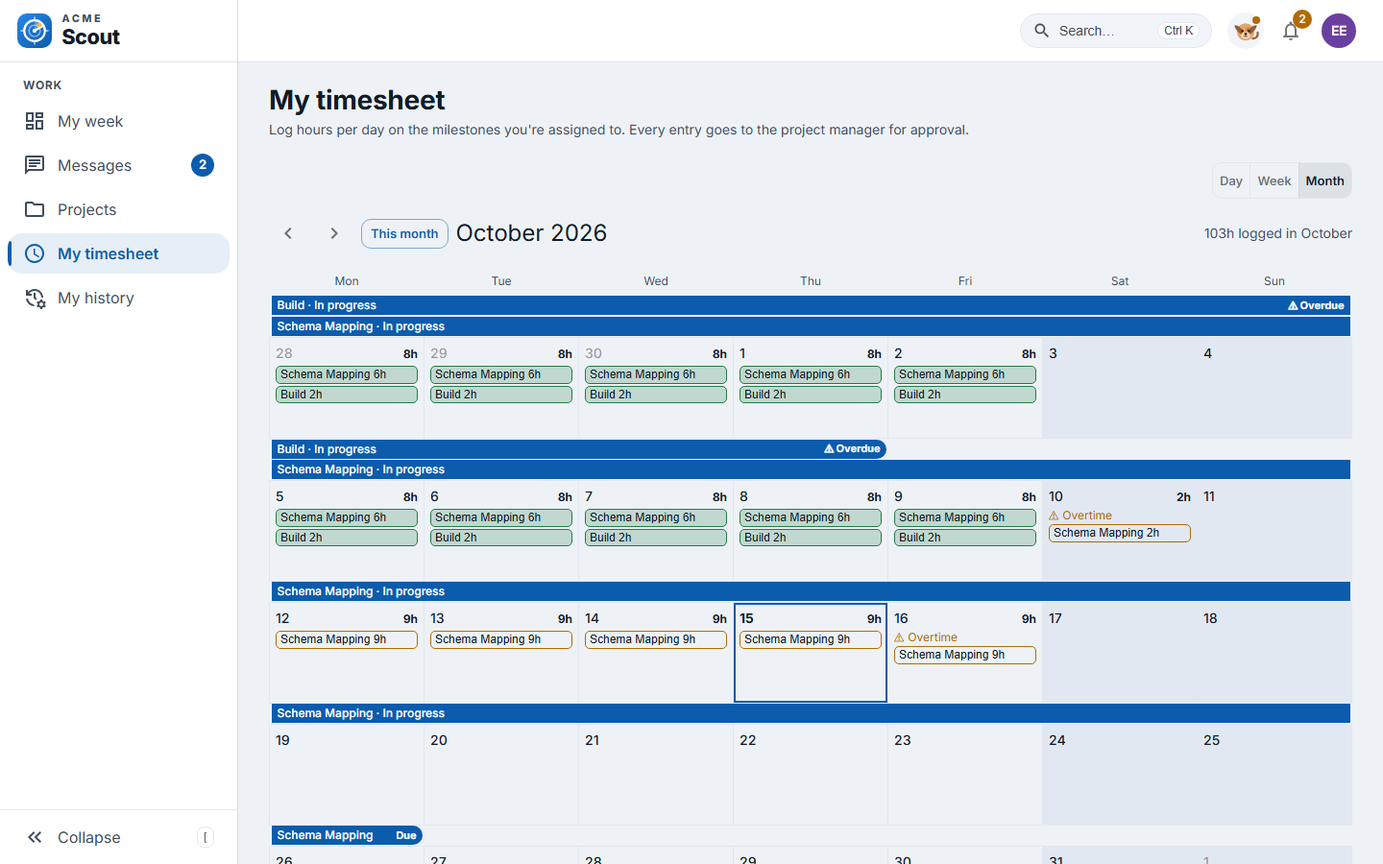
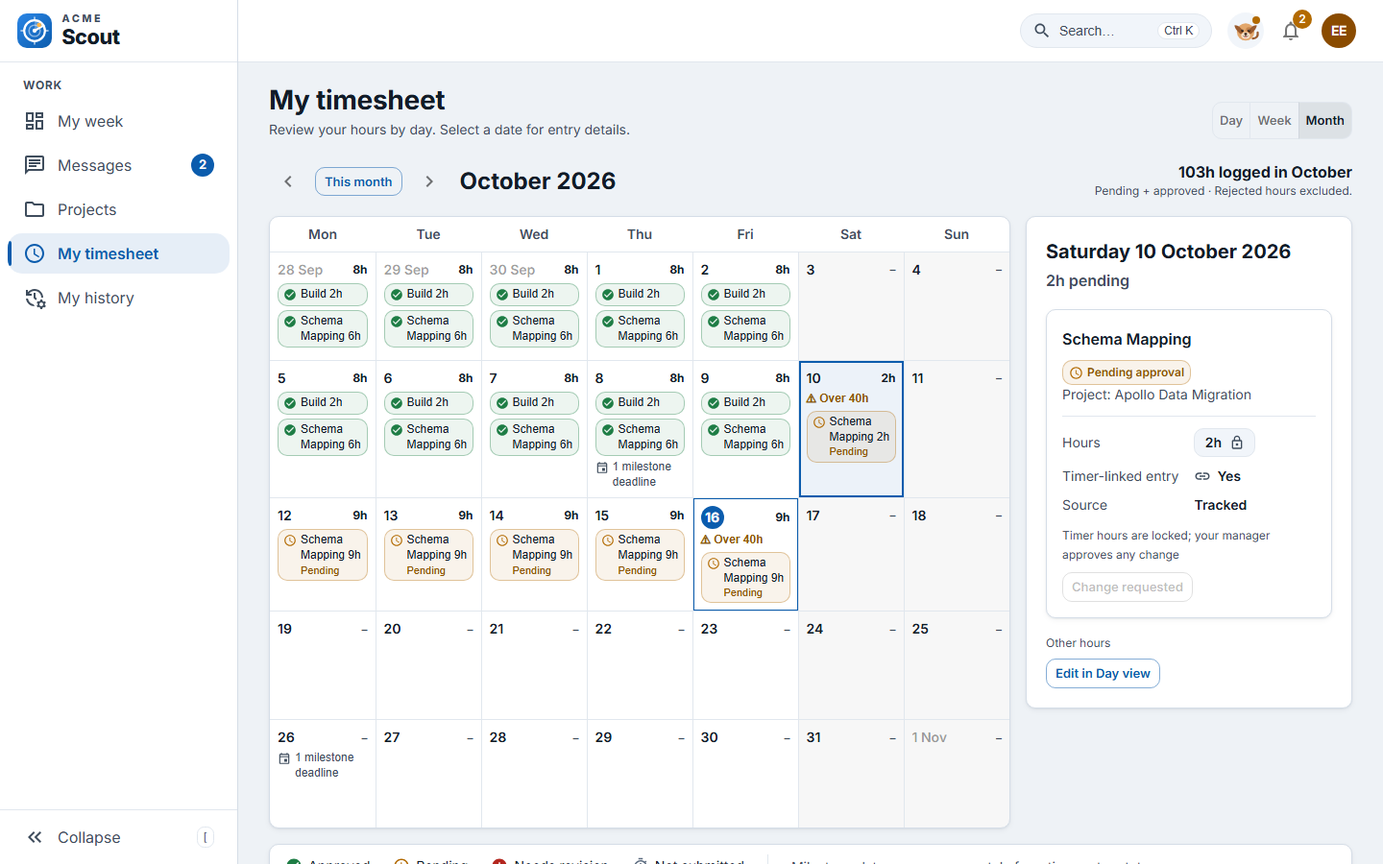
Month view v2: end-to-end journey, docs and screenshot

diff --git a/frontend/e2e/overtime.spec.js b/frontend/e2e/overtime.spec.js
@@ -41,11 +41,15 @@ test('employee logs 9h Mon–Fri → Friday shows the overtime label → manager
     await expect(page.getByText(/Overtime requested from/)).toHaveCount(0)
   }
 
-  // The Month view shows the same hours (Friday is the overtime day); picking a day there opens the Day view on it (on a phone, via the panel's "Open this day").
+  // The Month view shows the same hours (Friday is the overtime day). Picking a day selects it and its panel (beside the grid, or under it
+  // on a phone) lists the hours; "Edit in Day view" there opens the Day view on that day.
   const friday = (await page.getByRole('button', { name: /^Fri \d/ }).first().getAttribute('aria-label')).match(/Fri \d+ \w+/)[0]
   await page.getByRole('button', { name: 'Month', exact: true }).click()
-  await page.getByRole('button', { name: new RegExp(`^${friday}, 9 hours, overtime, Schema Mapping 9 hours pending`) }).click()
-  if (testInfo.project.name === 'mobile') await page.getByRole('button', { name: 'Open this day' }).click()
+  await page.getByRole('button', { name: new RegExp(`^${friday}, .*Schema Mapping 9 hours pending`) }).click()
+  const panel = page.getByRole('region', { name: /^Friday \d+ \w+ \d{4}$/ })
+  await expect(panel).toContainText('9h pending')
+  await expect(panel.getByRole('heading', { name: 'Schema Mapping' })).toBeVisible()
+  await panel.getByRole('button', { name: 'Edit in Day view' }).first().click()
   await expect(page.getByRole('button', { name: 'Day', exact: true })).toHaveAttribute('aria-pressed', 'true')
   await expect(page.getByLabel(/^Schema Mapping, Fri/)).toHaveValue('9')
 

diff --git a/docs/project/TESTING.md b/docs/project/TESTING.md
@@ -9,13 +9,13 @@ The tests are built for **debugging**, not only for a green tick:
 
 | Layer | Tool | Count | What a failure here means |
 |---|---|---|---|
-| Rules (unit) | pytest | part of 377 unit tests | A business rule is wrong: at-risk, over-40, cycles, the capacity cap, usernames, milestone status, priority, routing, claims, planning checks, messaging permissions, insights, reminders, timers and rounding, timer drafts and locks, over-limit thresholds, proof of work, red flags, the PNG sanitiser, or the password policy. No database is involved |
-| Core (unit) | pytest | part of 377 unit tests | The HTTP envelope, router guards, request IDs, hashing and tokens, or the SES fail-fast behaviour |
-| API (integration) | pytest + real PostgreSQL 17 | 741 | An endpoint is wrong: permissions (401/403/404), the executive and public demo guards, validation, archiving, an audit row, a race-safe update, or what one role can see vs another |
-| Frontend (component) | Vitest + React Testing Library + MSW | 923 (71 files) | A screen is wrong: form gating, loading/empty/error states, role-based hiding, or the payload sent to the API |
+| Rules (unit) | pytest | part of 387 unit tests | A business rule is wrong: at-risk, over-40, cycles, the capacity cap, usernames, milestone status, priority, routing, claims, planning checks, messaging permissions, insights, reminders, timers and rounding, timer drafts and locks, over-limit thresholds, proof of work, red flags, the PNG sanitiser, or the password policy. No database is involved |
+| Core (unit) | pytest | part of 387 unit tests | The HTTP envelope, router guards, request IDs, hashing and tokens, or the SES fail-fast behaviour |
+| API (integration) | pytest + real PostgreSQL 17 | 786 | An endpoint is wrong: permissions (401/403/404), the executive and public demo guards, validation, archiving, an audit row, a race-safe update, or what one role can see vs another |
+| Frontend (component) | Vitest + React Testing Library + MSW | 928 (72 files) | A screen is wrong: form gating, loading/empty/error states, role-based hiding, or the payload sent to the API |
 | End-to-end | Playwright | 3 journeys × 2 devices | The pieces don't fit together in a real browser: real API, real database, real cookies |
 
-Counts as of 2026-10-15: **1,120 backend** (377 unit, 743 integration, 97% coverage) and **923 frontend** in 71 files, plus **6 end-to-end**, all passing. Four date-dependent backend tests fail when the suite is run after 8 pm New York time (see [Known issue](#known-issue-date-dependent-backend-tests)). Results are under [Current results](#current-results-2026-10-15); older dated results further down are snapshots taken at the time.
+Counts as of 2026-10-16: **1,173 backend** (387 unit, 786 integration, collected; 97% coverage at the last full run) and **928 frontend** in 72 files, plus **6 end-to-end**; the frontend and end-to-end suites all pass. Four date-dependent backend tests fail when the suite is run after 8 pm New York time (see [Known issue](#known-issue-date-dependent-backend-tests)). Results are under [Current results](#current-results-2026-10-15); older dated results further down are snapshots taken at the time.
 
 **Fail-closed guard tests.** Two integration tests walk every registered write route (66 of 114 routes): [`test_public_demo.py`](../../backend/v1/tests/integration/test_public_demo.py) fails while any write route is neither allowed nor denied for the public demo admin, and [`test_executive.py`](../../backend/v1/tests/integration/test_executive.py) fails if the set of routes that let an executive write differs from the expected list, and checks that no executive response carries `salary` or `hourly_rate`. A new endpoint can't ship without a decision for both.
 
@@ -75,9 +75,9 @@ Each journey runs on **desktop Chrome (1280×800)** and on an **iPhone 13 profil
 2. **Milestones:** a manager adds a milestone that depends on *Discovery* and assigns Eli. Eli starts it and moves it to *ready for review*; Eli can't complete it. The manager then completes it.
 3. **Overtime:** an employee logs 9 h Monday to Friday in the timesheet's Day view: for each day they pick it in the week strip, type the hours and a work note (proof of work), and they press **Submit** once at the end. Stepping through the days afterwards, only Friday shows "Pending (Overtime requested from …)". The manager gets exactly one notification and opens it on the Timesheets page, filtered to that person. The manager then views the budget impact and approves, and the project's consumed budget goes up.
 
-## Current results (2026-10-15)
+## Current results (2026-10-16)
 
-Windows 11, PostgreSQL 17, Node 24, Python 3.12. Backend: 1,120 tests (377 unit, 743 integration), 30 more than before the Month view. The timed runs below come from `59d29fe` (the timer workflow) and `323ea89`, which had 1,087 tests; `f6c27bd` (no timer on a completed milestone) then added 3. The plain run was repeated at `3e61cd3` after 8 pm New York time, so it shows the known issue below. Frontend and end-to-end figures from the timesheet Month view (15 October), after the Day view rewrite of the end-to-end overtime journey.
+Windows 11, PostgreSQL 17, Node 24, Python 3.12. Backend: 1,173 tests (387 unit, 786 integration), 83 more than before the Month view (the backend counts are collected, not re-run in full; the timed runs below are earlier). The timed runs below come from `59d29fe` (the timer workflow) and `323ea89`, which had 1,087 tests; `f6c27bd` (no timer on a completed milestone) then added 3. The plain run was repeated at `3e61cd3` after 8 pm New York time, so it shows the known issue below. Frontend and end-to-end figures from the timesheet Month view (15 October), after the Month view v2 (16 October).
 
 ```
 # backend/v1: OVERWATCH_TEST_DB=overwatch_test_docs2 python -m pytest -o addopts="" -q
@@ -91,12 +91,12 @@ TOTAL                                     6456    175    97%
 1087 passed in 276.86s (0:04:36)
 
 # collected per layer
-tests/unit:        377 tests
-tests/integration: 743 tests
+tests/unit:        387 tests
+tests/integration: 786 tests
 
 # frontend: npx vitest run
- Test Files  71 passed (71)
-      Tests  923 passed (923)
+ Test Files  72 passed (72)
+      Tests  928 passed (928)
 
 # frontend: npm run lint && npm run build
 no problems; built in 9.68s
@@ -105,7 +105,7 @@ no problems; built in 9.68s
   6 passed (1.6m)
 ```
 
-The end-to-end suite (3 journeys × desktop Chrome and iPhone 13 WebKit, 6 tests) was brought up to date on 15 October: the overtime journey logs day by day in the Day view (hours and a work note per day, one **Submit** for the week) and follows the alert to the Timesheets page (after submitting, it switches to **Month**, finds Friday's button by its name and hours, and checks that clicking it opens the Day view on that day), and the onboarding journey lands on My week. All 6 pass. When the machine is busy with other suites, the milestones journey can time out waiting on the API; run the end-to-end suite on its own.
+The end-to-end suite (3 journeys × desktop Chrome and iPhone 13 WebKit, 6 tests) was brought up to date on 15 October: the overtime journey logs day by day in the Day view (hours and a work note per day, one **Submit** for the week) and follows the alert to the Timesheets page (after submitting, it switches to **Month**, selects Friday, checks that the day's panel lists its 9h pending, and presses **Edit in Day view** to land on that day; on a phone the panel sits under the grid), and the onboarding journey lands on My week. All 6 pass. When the machine is busy with other suites, the milestones journey can time out waiting on the API; run the end-to-end suite on its own.
 
 ### Known issue: date-dependent backend tests
 

diff --git a/README.md b/README.md
@@ -12,7 +12,7 @@ Scout is a project tracking platform for ACME Inc. It gives admins, project mana
 |---|---|
 | **Live site** | https://d3ucnz03j0sngl.cloudfront.net |
 | **Stack** | React 19 · Material UI 9 · React Responsive · Python 3 on AWS Lambda · Aurora PostgreSQL 17 |
-| **Tests** | 1,120 backend (377 unit · 743 integration, 97% coverage) · 923 frontend component (71 files) · 6 end-to-end (3 journeys × desktop + mobile), all passing on 15 Oct — see [TESTING.md](docs/project/TESTING.md) |
+| **Tests** | 1,173 backend (387 unit · 786 integration; 97% coverage at the last full run) · 928 frontend component (72 files) · 6 end-to-end (3 journeys × desktop + mobile); frontend and end-to-end all passing on 16 Oct — see [TESTING.md](docs/project/TESTING.md) |
 | **Source** | https://github.com/RootMoataz/citi-overwatch (the repository keeps its original name for now) |
 
 ## What it does
@@ -31,7 +31,7 @@ Highlights:
 
 - **Four roles plus a public demo.** Admin, manager, employee and a read-only executive, enforced on the server and reflected in the UI ([permission matrix](docs/project/USER_STORIES.md#roles-at-a-glance)). A public demo admin gets 5-minute sessions and a fail-closed list of allowed writes.
 - **Accounts.** Admins create them in a five-step wizard with live username checks and a generated password, or several at once in a conversation with Puppy. The welcome email carries a temporary password, which must be changed at first sign-in. After you sign out, the next sign-in lands on home; if a session merely expires, signing in again returns you to the page you were on, but only for the same person. Everyone sees a **Your manager** card on My week and their profile, with one press to message their manager.
-- **Timesheets.** Employees (and managers or admins an admin has switched to "Tracks own hours") log hours on the milestones they're assigned to, one day at a time: a week strip with each day's hours, a row per milestone with its hours and a work note, and one **Submit** for the whole week (a **Day | Week | Month** toggle brings back the full week grid, or shows the month: milestone bars across the calendar and each day's hours by milestone and status, with approved, pending, rejected and timer hours drawn differently. Clicking a day opens it in the Day view, and `?month=YYYY-MM` in the address keeps the month). Every hour needs the project manager's (or delegate's) approval before it counts toward the budget. Going over 40 hours is a warning, not a block. Admins submit approved pay periods to HR, and later edits come back as corrections.
+- **Timesheets.** Employees (and managers or admins an admin has switched to "Tracks own hours") log hours on the milestones they're assigned to, one day at a time: a week strip with each day's hours, a row per milestone with its hours and a work note, and one **Submit** for the whole week (a **Day | Week | Month** toggle brings back the full week grid, or shows the month: each day's hours with a chip per line (approved, pending, needs revision, not submitted, each with an icon and a word), a "⚠ Over 40h" mark and milestone-deadline markers. Clicking a day selects it and opens its panel with the hours, the lock and **Request a change** for timer hours, and **Edit in Day view**; `?month=YYYY-MM&day=YYYY-MM-DD` in the address keeps the month and day). Every hour needs the project manager's (or delegate's) approval before it counts toward the budget. Going over 40 hours is a warning, not a block. Admins submit approved pay periods to HR, and later edits come back as corrections.
 - **Approvals.** The Timesheets page groups pending hours by person-week. Each entry shows its budget impact: the cost of the request, the remaining budget before and after, and a 4-week-pace forecast.
 - **Hour-tracking safeguards.** A start/stop timer on My week and the timesheet (one at a time, a live clock in the header, stopped at midnight) whose hours pre-fill a locked timesheet cell until **Submit** sends them (a **Request a change** goes to the manager), a **Live now** card where managers watch running timers tick and can stop one with a message, warnings at 100% of the 8h day, the milestone's estimate or the 40h week (the manager is alerted at 125%), proof of work on new hours (a work note or that day's progress update), and red flags for approvers (same hours daily, long days, closed milestones, backdated, over plan, no activity, no proof) with a "Tracked 68% · Manual 32%" share per person-week ([Logic walkthrough §28](docs/project/LOGIC_WALKTHROUGH.md#28-hour-tracking-safeguards-timers-proof-of-work-red-flags)).
 - **Nothing is ever deleted.** Records are archived and an admin can restore them. Every change is written to the **audit log**.
@@ -59,8 +59,8 @@ Screenshots from the live site with the demo data (light mode unless noted).
 | **My week**: hours so far, your manager, assigned milestones, a start/stop timer | **Kick back** a blocked milestone to the manager with a reason |
 | ![My timesheet, Day view, on Thursday 15 Oct: the week strip with each day's hours, a Submit 1 change button, and the Schema Mapping row holding 2h of timer hours, locked, with "from timer, not submitted yet", a Request a change button and the work note](docs/images/timer-locked-cell.png) | ![The This week card above the Your manager card: Morgan Manager, Delivery Manager in Technology, with a Message Morgan button](docs/images/your-manager.png) |
 | **My timesheet, one day at a time**: a week strip, a row per milestone, and timer hours pre-filling a locked row; **Request a change** asks the manager | **Your manager**: who they are, and one press to message them |
-| ![My timesheet, Month view, October 2026: milestone bars across the calendar, each day's hours by milestone and status](docs/images/timesheet-month.png) | |
-| **My timesheet, Month**: bars for your milestones and each day's hours by status (approved solid, pending outlined, rejected struck through, timer dashed); click a day to open it | |
+| ![My timesheet, Month view, October 2026: each day's hours as status chips, deadline markers, and the selected day's panel beside the grid](docs/images/timesheet-month.png) | |
+| **My timesheet, Month**: each day's hours by approval status (icon and word, never colour alone), milestone deadlines as small markers, and a panel for the selected day with **Edit in Day view** | |
 
 <p>
   <img src="docs/images/timesheet-mobile.png" alt="My timesheet on a phone, Day view: Submit 1 change, the week strip with Thursday selected at 3.5h, and the Schema Mapping row with a Start button for the timer, its hours and a work note" width="30%">
@@ -168,8 +168,8 @@ Connection settings come from `POSTGRES_HOST`, `POSTGRES_PORT`, `POSTGRES_USER`,
 ## Tests
 
 ```bash
-cd backend/v1 && python -m pytest --cov=app              # 1,120 unit + integration tests against local Postgres
-cd frontend && npm test                                  # 923 component tests (Vitest + Testing Library)
+cd backend/v1 && python -m pytest --cov=app              # 1,173 unit + integration tests against local Postgres
+cd frontend && npm test                                  # 928 component tests (Vitest + Testing Library)
 cd frontend && npx playwright install chromium webkit    # once
 cd frontend && npm run e2e                               # 3 journeys × desktop Chrome and iPhone 13 (WebKit)
 cd frontend && npm run lint

diff --git a/docs/project/LOGIC_WALKTHROUGH.md b/docs/project/LOGIC_WALKTHROUGH.md
@@ -201,13 +201,14 @@ stateDiagram-v2
 
 ## 5c. The timesheet's Month view
 
-A read-only calendar of one person's month, opened with the **Day | Week | Month** toggle (`?month=YYYY-MM`; the choice is kept in this browser, and blocked storage just means Day).
+A read-only, hours-first calendar of one person's month, opened with the **Day | Week | Month** toggle (`?month=YYYY-MM`; the choice is kept in this browser, and blocked storage just means Day).
 
-- **One request.** `GET /time-entries/calendar?month=YYYY-MM` returns the grid (the Monday on or before the 1st to the Sunday on or after the last day, 4 to 6 whole weeks), the person's milestones that overlap it, their entries (every status, with the week view's `label`, `over_40` and `needs_note`) and timer drafts. A milestone you're assigned to keeps its real `role` even when it's listed only because you logged hours on it; `role: null` marks one you aren't assigned to. Permissions are the week's: your own, or a manager's or admin's view of someone they may see. Code: `calendar_range()` and the calendar handler in [`app/features/time/service.py`](../../backend/v1/app/features/time/service.py).
-- **Bars.** Each week row lays the milestones out as bars across their days, up to 3 lanes, with a "+N more milestones this week" line for the rest ([`monthLayout.js`](../../frontend/src/features/timesheet/monthLayout.js)). A bar is labelled "Name · State" when it is at least 3 columns wide and has a tooltip otherwise. State colours and stripes (waiting and blocked) come from the same theme as the timeline; an overdue milestone is marked.
-- **Day boxes.** Each day lists its hours by milestone and status: approved solid, pending outlined, rejected red with the hours struck through, timer drafts dashed ("from timer"). The day total counts pending and approved hours only; rejected and timer hours are shown but not counted, and a total over 24h turns red. All the date maths is on `YYYY-MM-DD` strings, so a daylight-saving change can't shift a day.
-- **Opening a day.** Each day is a button named like "Wed 14 Oct, 9 hours, Schema Mapping 9 hours pending". Clicking it opens the Day view on that day; on a phone the tap shows the day's details first, with **Open this day**.
-- **UI:** [`MonthView.jsx`](../../frontend/src/features/timesheet/MonthView.jsx), [`MonthBars.jsx`](../../frontend/src/features/timesheet/MonthBars.jsx), [`MonthDayBox.jsx`](../../frontend/src/features/timesheet/MonthDayBox.jsx), [`monthText.js`](../../frontend/src/features/timesheet/monthText.js) and the toggle in [`TimesheetPage.jsx`](../../frontend/src/features/timesheet/TimesheetPage.jsx).
+- **One request.** `GET /time-entries/calendar?month=YYYY-MM` returns the grid (the Monday on or before the 1st to the Sunday on or after the last day, 4 to 6 whole weeks), the person's milestones that overlap it, their entries (every status, with the week view's `label`, `over_40`, `needs_note`, `tracked_hours` and `rejection_reason`), timer drafts and `locks`: the cells holding timer hours or drafts, in the week view's shape (`milestone_id`, `work_date`, `hours`, `draft_hours`, `tracked_hours`, `request`). A milestone you're assigned to keeps its real `role` even when it's listed only because you logged hours on it; `role: null` marks one you aren't assigned to. Permissions are the week's: your own, or a manager's or admin's view of someone they may see. Code: `calendar_range()` and the calendar handler in [`app/features/time/service.py`](../../backend/v1/app/features/time/service.py).
+- **No milestone bars.** The grid shows hours and approval status only; colours mean approval status and nothing else. Milestone state stays on the project's timeline.
+- **Day boxes.** Each day shows its date, its total ("–" when empty) and one chip per line, each with an icon and a word: approved (a tick, green), pending (a clock, amber, "Pending"), rejected (an exclamation mark, red, "Needs revision", hours struck through) and a timer draft (a timer, dashed, "Not submitted"). More than 3 lines become "+N more". The day total counts pending and approved hours only; rejected and timer hours are shown but not counted, and a total over 24h turns red. "⚠ Over 40h" marks a day holding an over-40 entry, and "📅 N milestone deadlines" a day where an assigned, unfinished milestone ends. On a phone each line is a small shape in its status colour (approved a filled circle, pending a ring, needs revision a square, not submitted a dashed ring), so colour is never the only cue. All the date maths is on `YYYY-MM-DD` strings, so a daylight-saving change can't shift a day.
+- **Selecting a day.** Each day is a button named like "Wed 14 Oct, 9 hours, Schema Mapping 9 hours pending". Clicking it selects it (`?month=YYYY-MM&day=YYYY-MM-DD`; today if it is in the month, otherwise the 1st) and never leaves the Month view.
+- **The day panel** (beside the grid from 900px, under it on a phone): the full date, a summary ("8h · 6h approved, 2h pending"), a card per line (status chip, project, hours, "Timer-linked entry", Source: Manual when `tracked_hours` is 0, Tracked when it is at least the hours, Mixed otherwise, and the manager's reason on a rejected line), then the milestones due that day with **View milestones**. A cell holding timer hours (a `locks` entry) is locked: its card shows the lock, "Timer hours are locked; your manager approves any change" and **Request a change** (the existing dialog; "Change requested" while one waits). Any other line has **Edit in Day view**, which opens the Day view on that date; a day with only locked lines or none offers the same button under "Other hours" or on its own. The Month view never saves hours; typed hours stay editable in the Day view.
+- **UI:** [`MonthView.jsx`](../../frontend/src/features/timesheet/MonthView.jsx), [`MonthDayBox.jsx`](../../frontend/src/features/timesheet/MonthDayBox.jsx), [`MonthDayPanel.jsx`](../../frontend/src/features/timesheet/MonthDayPanel.jsx), [`monthLayout.js`](../../frontend/src/features/timesheet/monthLayout.js), [`monthText.js`](../../frontend/src/features/timesheet/monthText.js) and the toggle in [`TimesheetPage.jsx`](../../frontend/src/features/timesheet/TimesheetPage.jsx).
 
 ## 6. The at-risk rule
 

diff --git a/docs/project/USER_STORIES.md b/docs/project/USER_STORIES.md
@@ -255,7 +255,11 @@ Each panel is titled with the question it answers, and the panels are labelled r
     - Switching day keeps what I typed. **Submit N changes** in the page header sends every changed cell of the week, on any day, in one save.
     - Completed milestones, and milestones of a closed or on-hold project, sit behind **Show N closed milestones**. A completed milestone stays editable while its project is open; a closed or on-hold project's rows are read-only.
   - The **Day | Week | Month** toggle swaps in the **Week grid** (one row per assigned milestone, grouped by project, with daily and weekly totals) or the **Month** calendar. The choice is remembered in this browser. Weekends are hidden behind a switch on phones.
-  - The **Month** calendar (`?month=YYYY-MM`, with previous/next month buttons) shows my milestones as bars across the weeks, labelled "Name · State" on wide bars and in a tooltip on narrow ones, and each day's hours by milestone and status: approved solid, pending outlined, rejected in red with the hours struck through, and timer hours not yet submitted dashed ("from timer"). A day's total counts pending and approved hours only. A legend explains the line styles and milestone states. Clicking a day opens it in the Day view; on a phone, tapping a day shows its details first, with **Open this day**.
+  - The **Month** calendar (`?month=YYYY-MM&day=YYYY-MM-DD`, with previous/next month buttons) is about hours, not milestones:
+    - Each day shows its total (pending and approved only) and a chip per line with an icon and a word: approved, "Pending", "Needs revision" (hours struck through) or "Not submitted" (a timer draft). On a phone the lines are small shapes instead.
+    - "⚠ Over 40h" marks an overtime day, and "📅 N milestone deadlines" a day when one of my unfinished milestones ends.
+    - The header reads "<total>h logged in <Month>" with "Pending + approved · Rejected hours excluded."; a legend explains the statuses.
+    - Clicking a day selects it. A panel (beside the grid, or under it on a phone) lists that day's hours, one card per line with status, project, hours, whether it is timer-linked and its source (Manual, Tracked or Mixed), and the manager's reason on a rejected line. Timer hours are locked, with **Request a change**; other lines have **Edit in Day view**. The day's milestone dates follow, with **View milestones**.
   - Each saved entry shows its status:
     - "Pending approval"
     - "Pending (Overtime requested from *First Last*)" for the entry that takes my week past 40 hours, and any after it

diff --git a/docs/project/DEMO_SCRIPT.md b/docs/project/DEMO_SCRIPT.md
@@ -265,8 +265,8 @@ Say:
 > salaries are stripped from every executive response; photos are rebuilt from checked pixels by a pure-Python PNG
 > sanitiser, so nothing uploaded is served as-is.
 >
-> Tests: 1,120 backend tests at 97% coverage, 923 frontend component tests, and 6 end-to-end runs on desktop and
-> iPhone, all passing on 15 October.
+> Tests: 1,173 backend tests (97% coverage at the last full run), 928 frontend component tests, and 6 end-to-end runs on desktop and
+> iPhone; the frontend and end-to-end suites all passed on 16 October.
 >
 > Next: server-side email needs an SES endpoint, which is waiting on the instructors, and the GitHub repository gets
 > renamed to ACME Scout after this presentation."
@@ -305,9 +305,9 @@ Nothing is deleted, only archived. The hourly rate (salary ÷ 2,080) is frozen o
 One open kickback per milestone and one running timer per person are enforced by partial unique indexes. HR
 submissions keep a frozen copy of each payroll CSV.
 
-**Testing strategy?** Test-first. Business rules are pure functions with exhaustive edge cases (377 unit tests).
-743 integration tests run against a real PostgreSQL 17, because mocks hide SQL bugs. 923 component tests use Vitest
+**Testing strategy?** Test-first. Business rules are pure functions with exhaustive edge cases (387 unit tests).
+786 integration tests run against a real PostgreSQL 17, because mocks hide SQL bugs. 928 component tests use Vitest
 and MSW, where an unhandled request fails the test. 6 Playwright runs cover 3 journeys on desktop Chrome and iPhone
-13, all passing on 15 October. Two fail-closed tests walk every write route for the executive and demo-admin guards.
+13 (these and the component tests all passed on 16 October). Two fail-closed tests walk every write route for the executive and demo-admin guards.
 
 **Don't know?** "Good question. Let me show you where that lives." Open `LOGIC_WALKTHROUGH.md` or `DECISIONS.md`.
